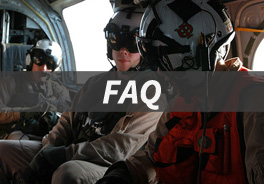
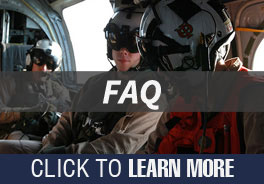
Updated schedule info
-Updated schedule info on index.html
-Added id to photos on newsroom.html
-Added “click to learn more” to the 4 links on the index page.

Changed region(s): [[0.0, 0.8152, 1.0, 1.0]]

diff --git a/index.html b/index.html
@@ -506,19 +506,16 @@
 						<article class="3u special">
 							<a href="schedule.html" class="image featured"><img src="images/schedule-layout.jpg" alt="" /></a>
 							<p>
-								Gates will open for the Friday (May 16) night show at 5 p.m. and flying will go from 5:45-10 p.m. On Saturday and Sunday (May 17-18), gates will open at 8 a.m. and flying will go from 10 a.m. – 4:30 p.m.
+								Gates will open for the Friday (May 16) night show at 5 p.m. and flying will go from 6:45 - 10:12 p.m. On Saturday and Sunday (May 17-18), gates will open at 8 a.m. and flying will go from 10 a.m. – 4:30 p.m.
 							</p>
 							<p>	
-								The hour by hour schedule and flight line layout have not been finalized yet.
-							</p>
-							<p>
-								Stay tuned for more updates.
+								<a href="schedule.html"><strong>Click here</strong> to view the full schedule and explore the flight line layout.</a>
 							</p>
 						</article>
 						<article class="3u special">
 							<a href="special-needs.html" class="image featured"><img src="images/special-needs.jpg" alt="" /></a>
 							<p>
-								Special guidelines for groups and individuals with special needs.
+								<a href="special-needs.html">Special guidelines for groups and individuals with special needs.</a>
 							</p>
 						</article>
 					</div>

diff --git a/newsroom.html b/newsroom.html
@@ -265,7 +265,7 @@ Authorization Act for Fiscal Year 2014...
 								<h3>Photos</h3>
 							</header></article>
 					</div>
-					<div class="row">
+					<div class="row" id="photos">
 						<article class="-1u 4u">
 							<ul>
 								<strong><li>10 Panorama photos (84.9 Mbs)</li></strong>
